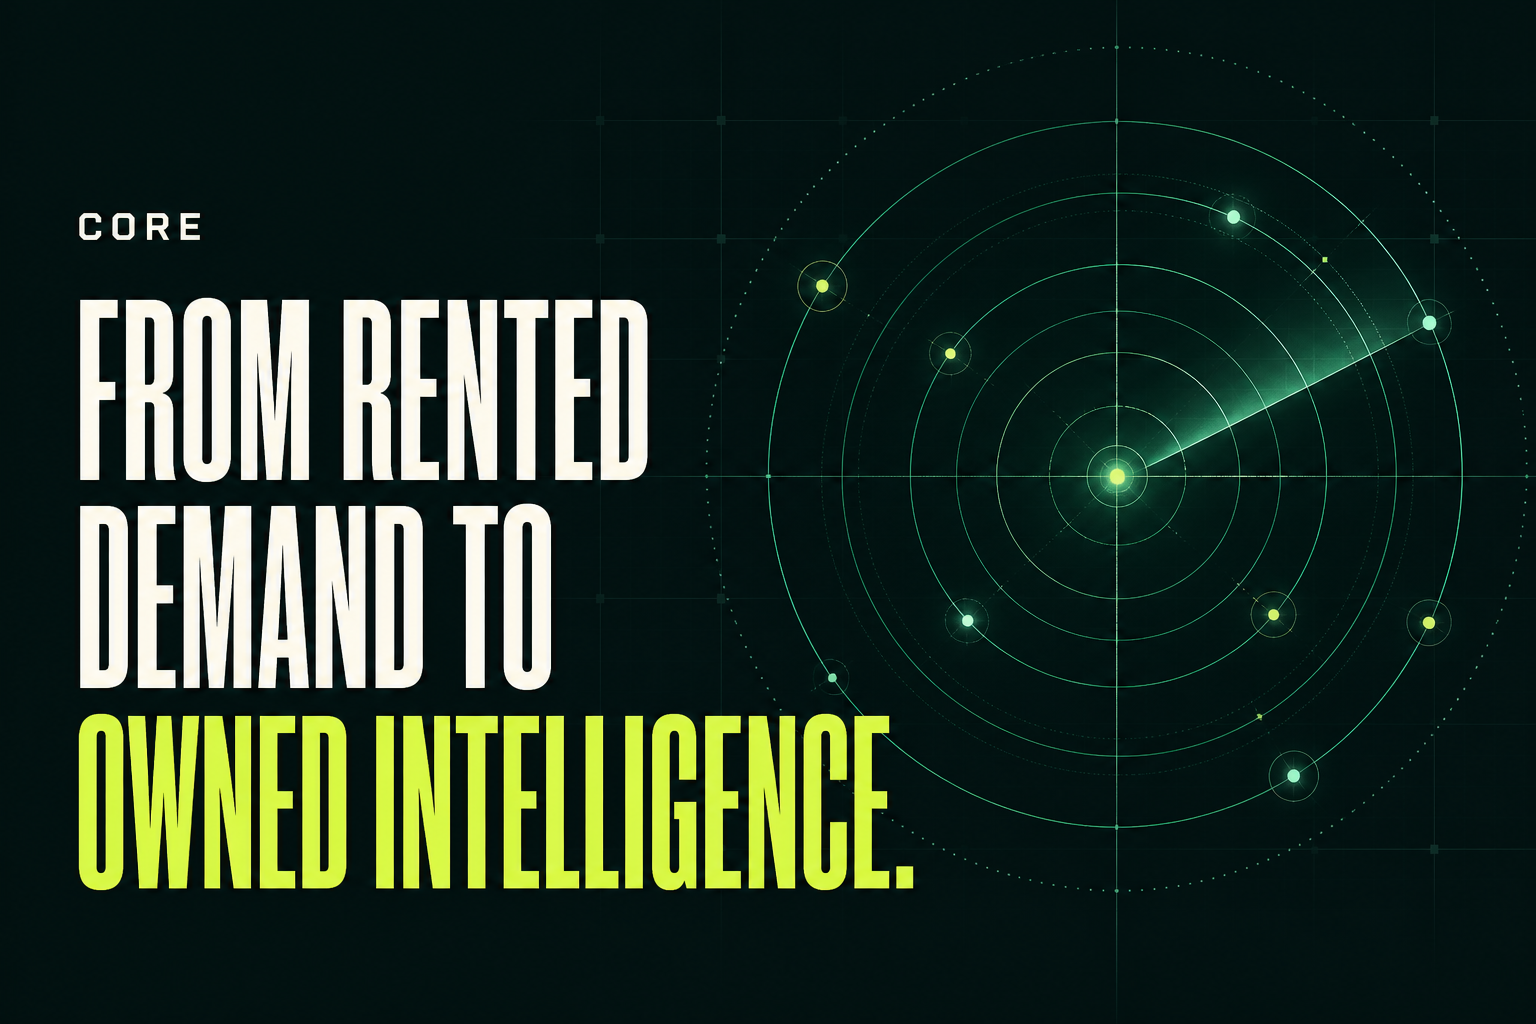
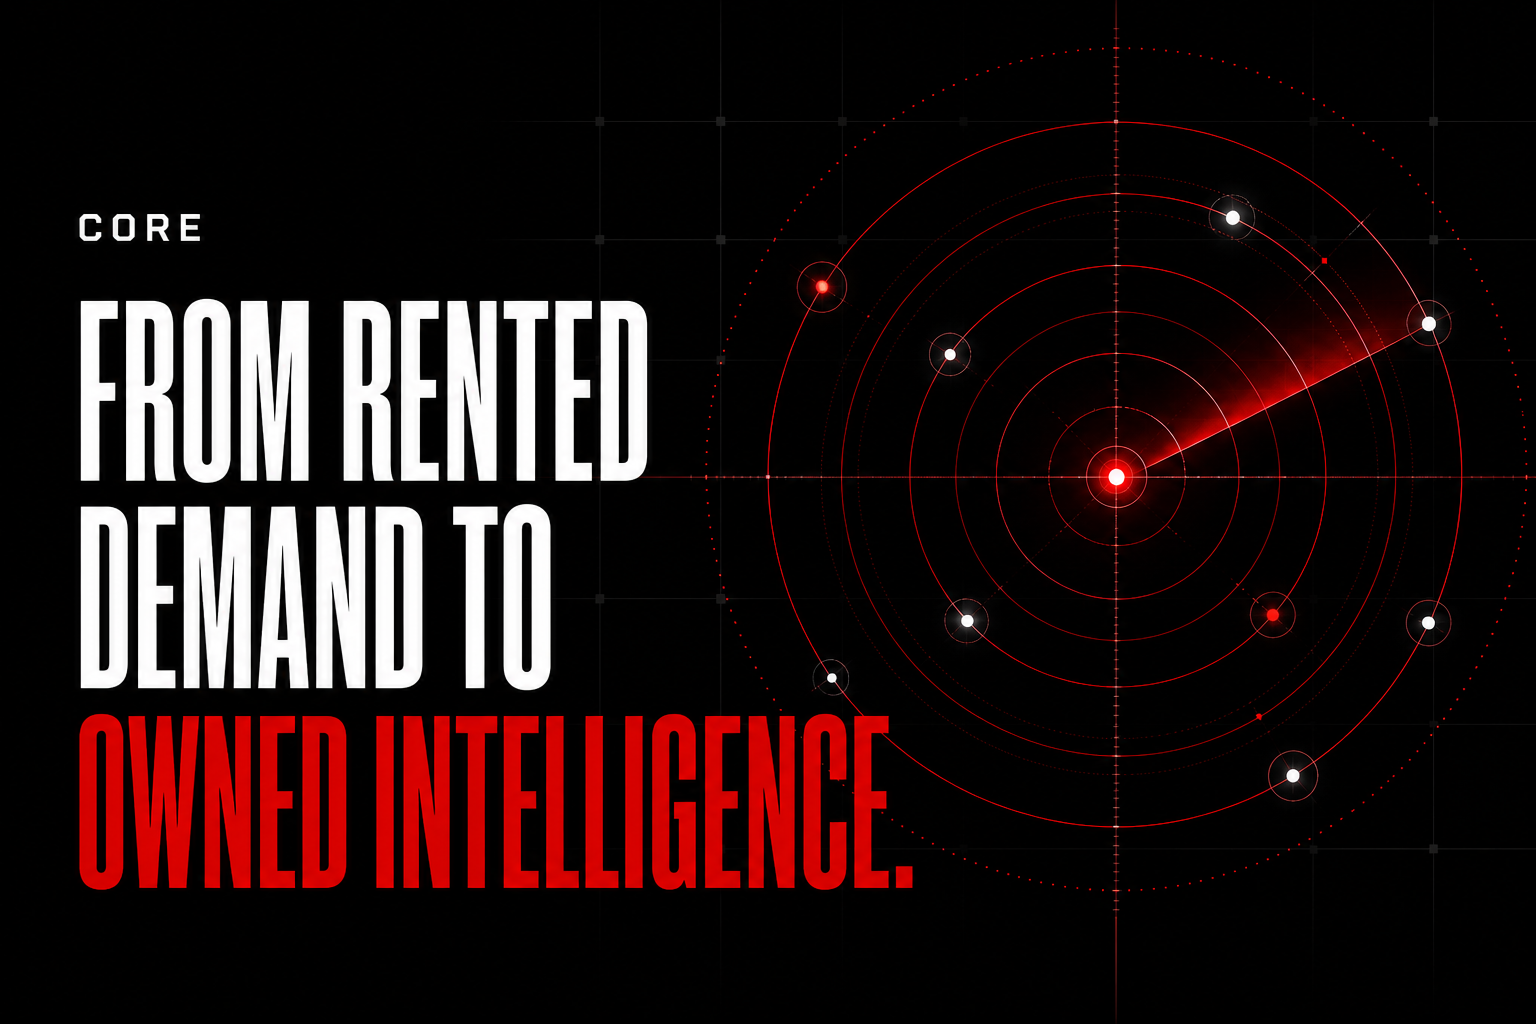
Restyle Core in black red and white

diff --git a/app/globals.css b/app/globals.css
@@ -1,24 +1,25 @@
 @import "tailwindcss";
 
 :root {
-  --ink: #0b1917;
-  --ink-soft: #132522;
-  --paper: #f2f0e8;
-  --paper-deep: #e7e4da;
-  --white: #fbfaf5;
-  --lime: #c9ff3d;
-  --mint: #7de3bf;
-  --orange: #ff6a3d;
-  --line-light: rgba(255, 255, 255, 0.14);
-  --line-dark: rgba(11, 25, 23, 0.17);
+  --ink: #050505;
+  --ink-soft: #111111;
+  --paper: #ffffff;
+  --paper-deep: #f2f2f2;
+  --white: #ffffff;
+  --lime: #e10600;
+  --mint: #ffffff;
+  --orange: #e10600;
+  --red: #e10600;
+  --line-light: rgba(255, 255, 255, 0.22);
+  --line-dark: rgba(5, 5, 5, 0.22);
 }
 
 * { box-sizing: border-box; }
 html { scroll-behavior: smooth; background: var(--ink); }
-body { margin: 0; background: var(--paper); color: var(--ink); font-family: Arial, Helvetica, sans-serif; }
+body { margin: 0; background: var(--paper); color: var(--ink); font-family: "Segoe UI Variable Text", "Segoe UI", Inter, "Helvetica Neue", Arial, sans-serif; font-feature-settings: "kern" 1, "liga" 1; -webkit-font-smoothing: antialiased; text-rendering: optimizeLegibility; }
 a { color: inherit; text-decoration: none; }
 button { font: inherit; }
-em { font-family: Georgia, "Times New Roman", serif; font-weight: 400; }
+em { font-family: "Iowan Old Style", Baskerville, Georgia, "Times New Roman", serif; font-weight: 500; }
 
 .site-nav {
   position: absolute; inset: 0 0 auto; z-index: 20; height: 96px; padding: 0 5vw;
@@ -96,7 +97,7 @@ em { font-family: Georgia, "Times New Roman", serif; font-weight: 400; }
 .section-heading > p { margin: 0 0 4px; max-width: 500px; font-size: 15px; line-height: 1.7; color: #53615d; }
 .kicker { color: #60736c; }
 
-.scenario-tabs { display: grid; grid-template-columns: repeat(4, 1fr); border-top: 1px solid var(--line-dark); border-bottom: 1px solid var(--line-dark); }
+.scenario-tabs { display: grid; grid-template-columns: repeat(5, 1fr); border-top: 1px solid var(--line-dark); border-bottom: 1px solid var(--line-dark); }
 .scenario-tabs button { cursor: pointer; min-height: 126px; padding: 24px 26px; text-align: left; color: var(--ink); background: transparent; border: 0; border-right: 1px solid var(--line-dark); position: relative; transition: background .25s ease, color .25s ease; }
 .scenario-tabs button:last-child { border-right: 0; }
 .scenario-tabs button span { position: absolute; right: 20px; top: 18px; font-size: 8px; letter-spacing: .14em; opacity: .45; }
@@ -659,4 +660,113 @@ footer > p { margin: 0; max-width: 900px; color: rgba(251,250,245,.4); font-size
 @media (prefers-reduced-motion: reduce) {
   html { scroll-behavior: auto; }
   *, *::before, *::after { animation-duration: .01ms !important; animation-iteration-count: 1 !important; transition-duration: .01ms !important; }
+}
+
+/* CORE monochrome signal theme */
+body, .section-light, .command-system, .script-vault, .scale { background: #fff; }
+.hero, .signal-exchange, .carrier-intelligence, .call-intelligence, .quality, .leadership, footer { background: #050505; }
+.hero-glow { background: radial-gradient(circle, rgba(225,6,0,.28), rgba(225,6,0,.08) 42%, transparent 70%); }
+.hero::before { opacity: .2; background-image: linear-gradient(rgba(255,255,255,.1) 1px, transparent 1px), linear-gradient(90deg, rgba(225,6,0,.18) 1px, transparent 1px); }
+.control-plane { background: rgba(5,5,5,.9); border: 1px solid rgba(225,6,0,.72); box-shadow: 0 36px 90px rgba(225,6,0,.12); }
+.orbit { border-color: rgba(225,6,0,.42); }
+.orbit::before, .orbit::after { background: rgba(255,255,255,.12); }
+.signal-dot { background: #fff; box-shadow: 0 0 18px #e10600; }
+.signal-core { color: #fff; background: #e10600; box-shadow: 0 0 70px rgba(225,6,0,.42); }
+.plane-metrics div, .signal-loop, .call-memory-loop, .script-proof { background: #111; }
+.transition-strip, .exchange-standard, .proof-point, .scale-card-accent { color: #fff; background: #e10600; }
+.transition-strip div span { border-color: #fff; }
+.section-heading h2 em, .quality h2 em, .partner h2 em, .leadership h2 em,
+.carrier-heading h2 em, .call-heading h2 em { color: #e10600; }
+.kicker, .micro-label, .section-heading > p, .scenario-story > p, .scenario-number > span,
+.rank-economics span, .carrier-heading > p, .command-heading > p, .script-heading > p { color: #555 !important; }
+.kicker-dark, .eyebrow, .command-brand, .live-chip, .queue-label span, .call-lab-topline > div:first-child,
+.script-index-label span, .script-sync, .script-proof > span, .carrier-disclaimer span { color: #fff !important; }
+.scenario-marker span { color: #e10600; font-family: "Iowan Old Style", Baskerville, Georgia, serif; }
+.scenario-facts span, .carrier-explainer, .winning-pattern, .call-learning-grid > div, .script-shell,
+.call-lab-shell, .call-list, .call-model-note, .script-note { background: #f2f2f2; }
+.rank-economics, .rank-economics div, .scenario-panel, .pipeline-list, .pipeline-row,
+.script-document-head, .script-evidence, .script-steps > div, .call-detail-head, .call-vitals,
+.call-summary, .call-timeline { border-color: rgba(5,5,5,.28); }
+.mini-bars i { background: #050505; opacity: .38; }
+.mini-bars i:nth-child(n+6) { background: #e10600; opacity: 1; }
+.exchange-shell, .command-shell { background: #0b0b0b; border-color: rgba(225,6,0,.48); }
+.exchange-flow article, .command-nav, .script-index { background: #050505; }
+.exchange-calculator, .goal-engine { color: #fff; background: #e10600; }
+.exchange-calculator input[type="range"], .goal-engine input[type="range"] { accent-color: #050505; }
+.exchange-calculator > p, .engine-note, .next-move, .script-guardrail { color: #fff; background: #050505 !important; border: 1px solid rgba(255,255,255,.3); }
+.carrier-shell { border: 1px solid rgba(225,6,0,.6); box-shadow: 0 42px 100px rgba(225,6,0,.12); }
+.carrier-rail, .carrier-overview, .carrier-disclaimer { background: #050505; }
+.carrier-overview::after { background: linear-gradient(90deg, #050505 10%, rgba(5,5,5,.82) 52%, rgba(225,6,0,.14)); }
+.carrier-score { border-color: #e10600; box-shadow: inset 0 0 40px rgba(225,6,0,.12); }
+.carrier-workspace, .carrier-panel, .carrier-tablist, .underwriting-panel { background: #fff; }
+.carrier-rail-item.active { background: rgba(225,6,0,.16); box-shadow: inset 3px 0 #e10600; }
+.carrier-rail-item.active > span, .carrier-tablist button.active, .command-nav > button.active,
+.call-filters button.active, .script-index > button.active { color: #fff; background: #e10600; border-color: #e10600; }
+.carrier-rail-item.active small, .carrier-rail-item.active > i { color: #fff; }
+.tier-card.lime, .tier-card.mint, .tier-card.orange, .tier-card.paper { box-shadow: inset 0 4px #e10600; background: #fff; }
+.underwriting-search { background: #050505; }
+.underwriting-search input { color: #fff; border-bottom-color: rgba(255,255,255,.5); }
+.command-nav, .script-index { border-color: rgba(255,255,255,.18); }
+.command-rank { border-color: rgba(225,6,0,.65); background: rgba(225,6,0,.14); }
+.priority { color: #fff; border: 1px solid rgba(255,255,255,.55); }
+.priority-p1, .priority-p2, .priority-p3 { background: #e10600; }
+.call-lab-topline, .call-score, .next-move, .script-index, .script-proof { background: #050505 !important; }
+.call-filters, .call-list { background: #ededed; }
+.call-filters button.active span { color: #e10600; background: #fff; }
+.call-list > button.active { background: #fff; box-shadow: inset 4px 0 #e10600; }
+.call-outcome, .call-outcome.lost, .call-outcome.needs-review { color: #fff; background: #e10600; }
+.call-vitals i, .moment i, .moment-risk i, .moment-outcome i { background: #e10600; }
+.moment i { border-color: #fff; box-shadow: 0 0 0 1px #050505; }
+.script-document { background: #fff; }
+.script-status { color: #fff; background: #050505; border: 1px solid #e10600; }
+.script-status i { background: #e10600; }
+.proof-radar { border-color: rgba(225,6,0,.6); }
+.proof-radar i { border-color: rgba(255,255,255,.22); }
+.proof-radar i:nth-child(3) { border-color: transparent; border-top-color: #e10600; }
+.partner { background: #fff; }
+.scale-card { background: #fff; }
+.scale-card-accent p, .proof-point p, .proof-label { color: rgba(255,255,255,.78); }
+
+h1, h2, h3, h4, strong, .brand-wordmark, .target-number, .scenario-number strong,
+.call-score strong, .goal-outputs strong, .exchange-ledger strong {
+  font-family: "Segoe UI Variable Display", "Arial Narrow", "Helvetica Neue", Arial, sans-serif;
+}
+h1, h2 { font-weight: 800; }
+button, .button, .nav-cta, .text-link {
+  font-family: "Segoe UI Variable Text", "Segoe UI", Inter, Arial, sans-serif;
+  font-weight: 800;
+  letter-spacing: .1em;
+}
+.button, .nav-cta, .text-link, .carrier-tablist button, .command-nav > button,
+.call-filters button, .call-list > button, .script-index > button, .next-move button,
+.script-proof > button, .script-steps button {
+  border-radius: 0;
+  outline: 1px solid transparent;
+  outline-offset: -1px;
+  transition: color .2s ease, background .2s ease, border-color .2s ease, outline-color .2s ease, transform .2s ease;
+}
+.button-primary { color: #fff; background: #e10600; border: 1px solid #e10600; }
+.button-primary:hover { color: #e10600; background: #fff; border-color: #fff; box-shadow: 0 14px 34px rgba(225,6,0,.28); }
+.nav-cta { padding: 12px 12px 12px 18px; border: 1px solid rgba(255,255,255,.48); }
+.nav-cta:hover { color: #fff; border-color: #e10600; outline-color: #e10600; }
+.nav-cta span { color: #fff; background: #e10600; border: 1px solid #e10600; border-radius: 0; }
+.text-link { border: 1px solid rgba(255,255,255,.42); padding: 13px 15px; }
+.text-link:hover { color: #fff; border-color: #e10600; outline-color: #e10600; }
+.scenario-tabs button, .carrier-tablist button, .command-nav > button, .call-filters button,
+.call-list > button, .script-index > button, .script-steps button { border-color: rgba(5,5,5,.25); }
+.scenario-tabs button:focus-visible, .carrier-tablist button:focus-visible, .command-nav > button:focus-visible,
+.call-filters button:focus-visible, .call-list > button:focus-visible, .script-index > button:focus-visible,
+.button:focus-visible, .nav-cta:focus-visible, .text-link:focus-visible {
+  outline: 2px solid #e10600;
+  outline-offset: 3px;
+}
+.scenario-tabs button:hover:not(.active), .carrier-tablist button:hover:not(.active),
+.call-filters button:hover:not(.active) { color: #e10600; background: #f4f4f4; outline-color: #e10600; }
+.command-nav > button:hover:not(.active), .script-index > button:hover:not(.active) { color: #fff; background: #1a1a1a; outline-color: #e10600; }
+.next-move button, .script-proof > button { color: #fff; border: 1px solid #e10600; padding: 10px 12px; }
+.next-move button:hover, .script-proof > button:hover { color: #fff; background: #e10600; }
+
+@media (max-width: 680px) {
+  .scenario-tabs { grid-template-columns: repeat(5, minmax(82px, 1fr)); overflow-x: auto; }
+  .scenario-tabs button { min-width: 82px; }
 }
